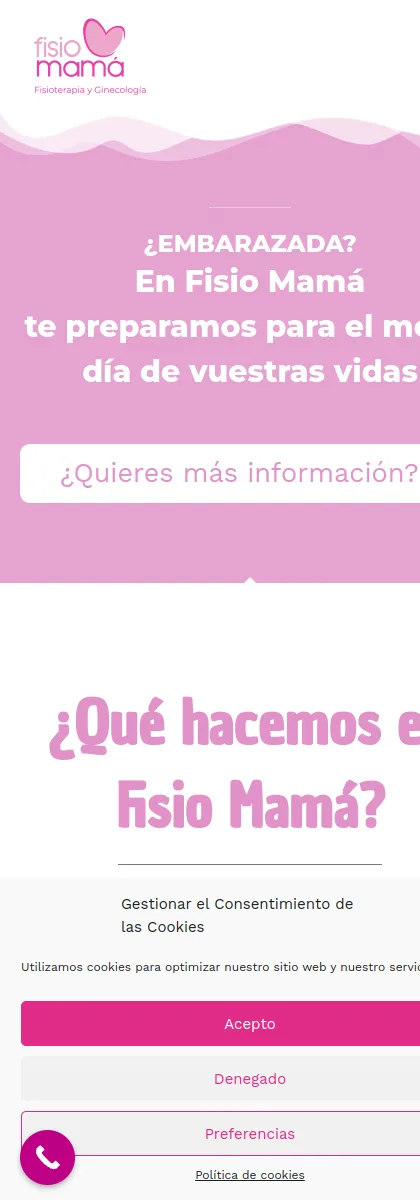
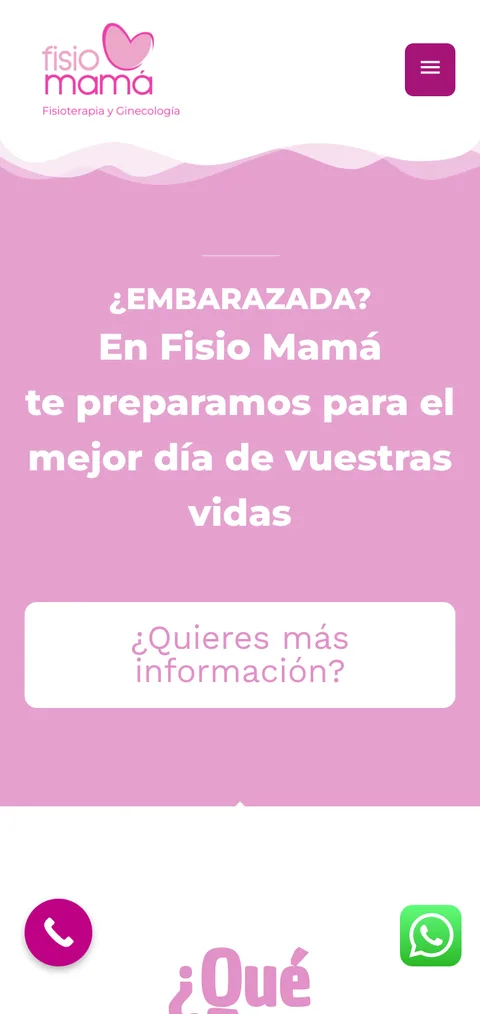
feat(proyectos): mockup escena escritorio + capturas limpias + branding unico
- Escena espectacular: escritorio de diseno con MacBook + iPhone
- Capturas reales limpias via microlink (sin banner de cookies, movil responsive)
- Bloque de branding con titulo/texto unico por proyecto (no repetidos)
- Logos reales

diff --git a/src/content/config.ts b/src/content/config.ts
@@ -30,6 +30,8 @@ const proyectos = defineCollection({
     shotDesktop: z.string(),
     shotMobile: z.string(),
     logo: z.string().optional(),
+    brandingTitle: z.string().optional(),
+    brandingText: z.string().optional(),
     order: z.number().default(0),
   }),
 });

diff --git a/src/content/proyectos/centro-infantil-periquete.md b/src/content/proyectos/centro-infantil-periquete.md
@@ -11,6 +11,8 @@ tone: "rose"
 shotDesktop: "/img/shot-periquete-d.webp"
 shotMobile: "/img/shot-periquete-m.webp"
 logo: "/img/logo-periquete.webp"
+brandingTitle: "El logo es lo de menos."
+brandingText: "Lo que de verdad tranquiliza a una familia es la coherencia: que el color, la tipografía y el tono digan lo mismo en la web, en la puerta del centro y en cada cartel. Construimos ese sistema para Periquete — una marca que se reconoce y que da confianza esté donde esté."
 order: 1
 ---
 

diff --git a/src/content/proyectos/fisio-mama.md b/src/content/proyectos/fisio-mama.md
@@ -11,6 +11,8 @@ tone: "peri"
 shotDesktop: "/img/shot-fisio-d.webp"
 shotMobile: "/img/shot-fisio-m.webp"
 logo: "/img/logo-fisio.webp"
+brandingTitle: "Una marca que abraza."
+brandingText: "En salud, la identidad no decora: tranquiliza. Diseñamos un símbolo y una paleta suaves, femeninos y serenos, con un tono que acompaña en vez de vender. La misma calma en la web, en la consulta y en cada mensaje — para que la confianza empiece antes de la primera cita."
 order: 2
 ---
 
